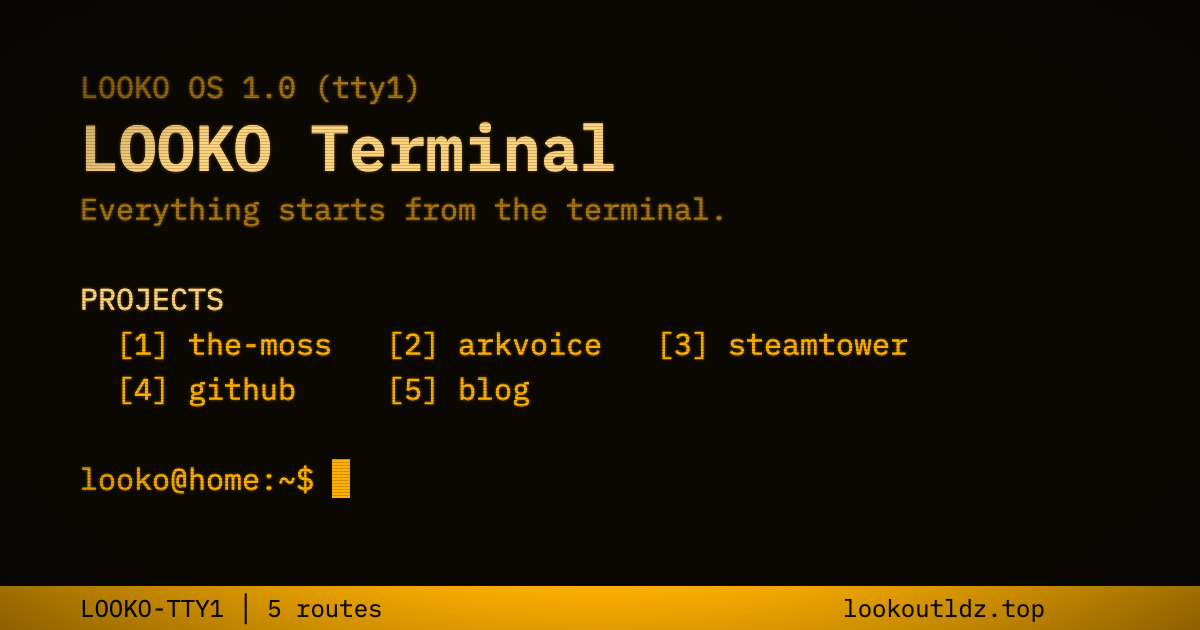
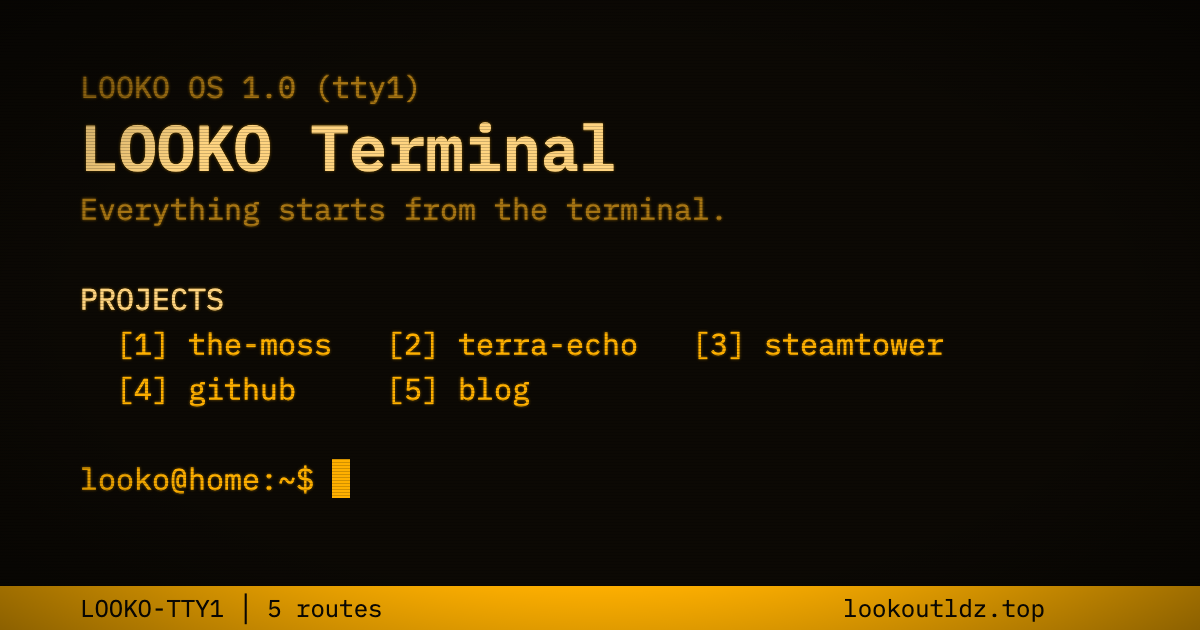
feat(terminal): 将项目 arkvoice 更名为 terra-echo
- 指向 https://terraecho.top/，新增别名 terraecho
- 短链改为 /terra-echo 和 /terraecho，移除 /arkvoice
- 同步更新首屏链接、需求文档、测试和分享图

Changed region(s): [[0.37, 0.5127, 0.8017, 0.573]]

diff --git a/index.html b/index.html
@@ -6,7 +6,7 @@
     <title>LOOKO Terminal | Looko 的个人导航主页</title>
     <meta
       name="description"
-      content="LOOKO Terminal 是 Looko 的个人导航主页，用复古琥珀色终端的方式收纳 The Moss、arkvoice、steamtower、GitHub 和博客入口。"
+      content="LOOKO Terminal 是 Looko 的个人导航主页，用复古琥珀色终端的方式收纳 The Moss、Terra Echo、steamtower、GitHub 和博客入口。"
     />
     <meta
       name="keywords"
@@ -78,7 +78,7 @@
           <div class="line tone-bright">PROJECTS</div>
           <ul class="projects">
             <li><a class="link" href="https://moss.lookoutldz.top/" data-target="the-moss">[1] the-moss</a></li>
-            <li><a class="link" href="https://arkvoice.top/" data-target="arkvoice">[2] arkvoice</a></li>
+            <li><a class="link" href="https://terraecho.top/" data-target="terra-echo">[2] terra-echo</a></li>
             <li><a class="link" href="https://steamtower.top/" data-target="steamtower">[3] steamtower</a></li>
             <li><a class="link" href="https://github.com/lookoutldz/" data-target="github">[4] github</a></li>
             <li><a class="link" href="https://juejin.cn/user/4341288062690398" data-target="blog">[5] blog</a></li>

diff --git a/tests/commands.test.js b/tests/commands.test.js
@@ -93,7 +93,7 @@ test("open without a target prints usage and does not navigate", async () => {
   await execute(ctx, "open");
   assert.deepEqual(text(), [
     "usage: open <target>",
-    "targets: 1-5, the-moss, arkvoice, steamtower, github, blog",
+    "targets: 1-5, the-moss, terra-echo, steamtower, github, blog",
   ]);
   assert.deepEqual(calls.navigated, []);
 });

diff --git a/js/projects.js b/js/projects.js
@@ -7,9 +7,9 @@ export const PROJECTS = [
   },
   {
     index: 2,
-    name: "arkvoice",
-    aliases: [],
-    url: "https://arkvoice.top/",
+    name: "terra-echo",
+    aliases: ["terraecho"],
+    url: "https://terraecho.top/",
   },
   {
     index: 3,

diff --git a/requirements.md b/requirements.md
@@ -123,7 +123,7 @@ LOOKO Terminal 是 Looko 的个人导航主页，访问地址为 `https://lookou
 | Ready.                                                       |
 |                                                              |
 | PROJECTS                                                     |
-|   [1] the-moss    [2] arkvoice    [3] steamtower             |
+|   [1] the-moss    [2] terra-echo  [3] steamtower             |
 |   [4] github      [5] blog                                   |
 |                                                              |
 | Type "help" for commands, or click a project.                |
@@ -162,7 +162,7 @@ LOOKO Terminal 是 Looko 的个人导航主页，访问地址为 `https://lookou
 | 序号 | 名称 | 别名 | 地址 | 短链 |
 | --- | --- | --- | --- | --- |
 | 1 | `the-moss` | `moss` | `https://moss.lookoutldz.top/` | `/the-moss`、`/moss` |
-| 2 | `arkvoice` | | `https://arkvoice.top/` | `/arkvoice` |
+| 2 | `terra-echo` | `terraecho` | `https://terraecho.top/` | `/terra-echo`、`/terraecho` |
 | 3 | `steamtower` | | `https://steamtower.top/` | `/steamtower` |
 | 4 | `github` | `gh` | `https://github.com/lookoutldz/` | `/github`、`/gh` |
 | 5 | `blog` | `juejin` | `https://juejin.cn/user/4341288062690398` | `/blog`、`/juejin` |
@@ -251,11 +251,11 @@ Opening the-moss...
 ```text
 looko@home:~$ open
 usage: open <target>
-targets: 1-5, the-moss, arkvoice, steamtower, github, blog
+targets: 1-5, the-moss, terra-echo, steamtower, github, blog
 
 looko@home:~$ open foo
  ERR  open: no such target: foo
-targets: 1-5, the-moss, arkvoice, steamtower, github, blog
+targets: 1-5, the-moss, terra-echo, steamtower, github, blog
 ```
 
 `about` 输出：
